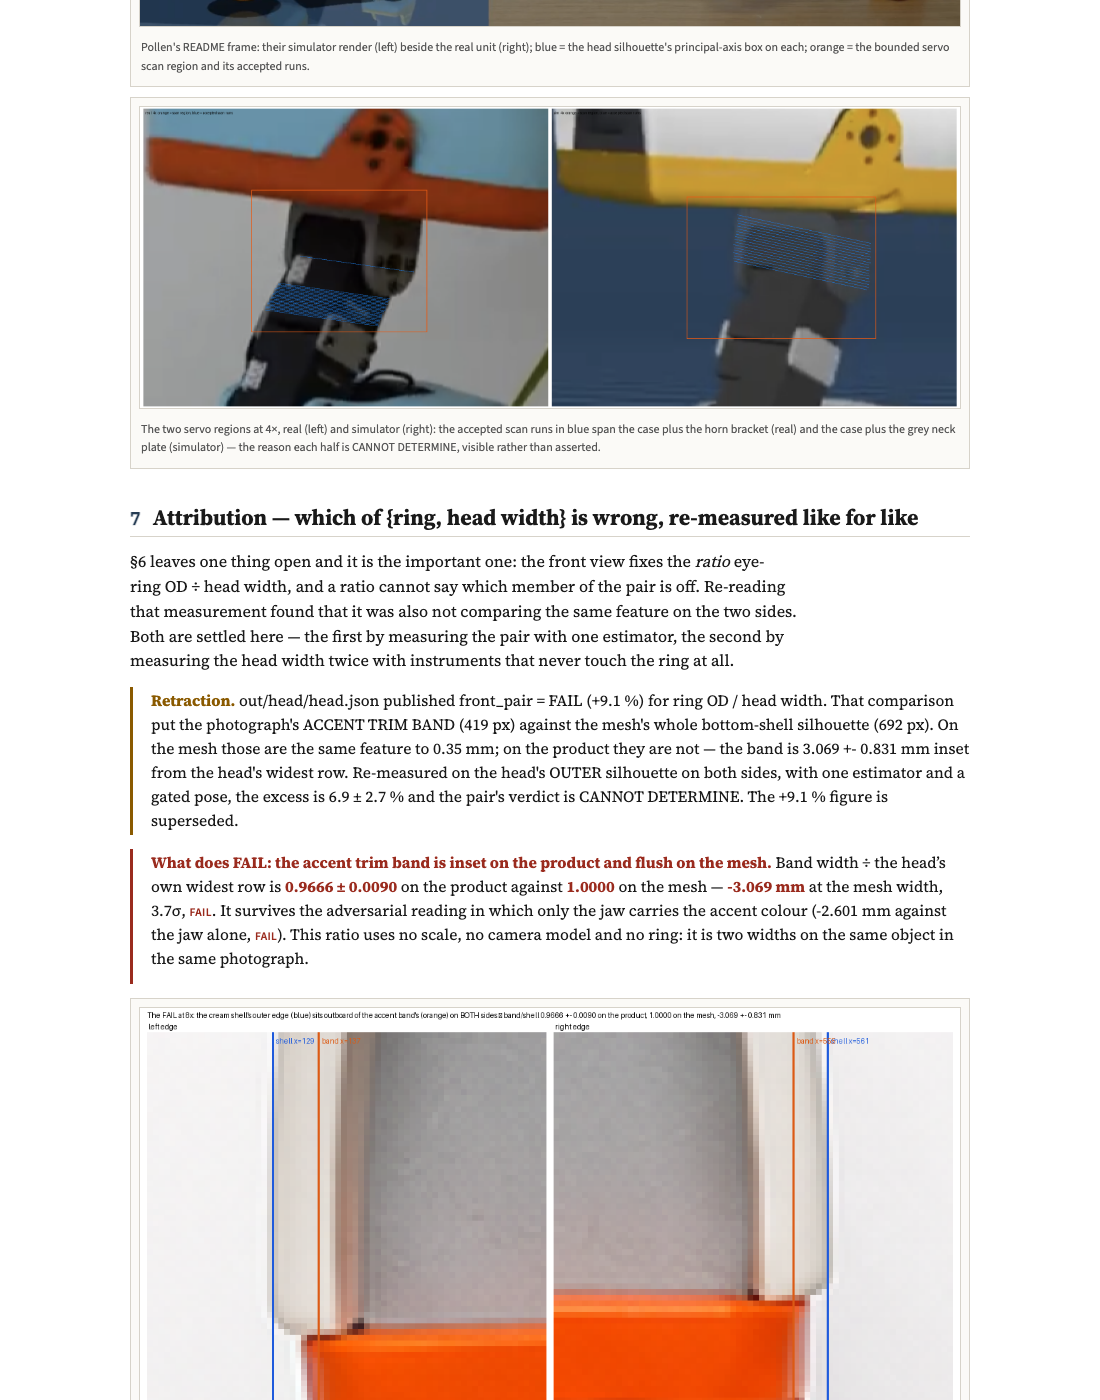
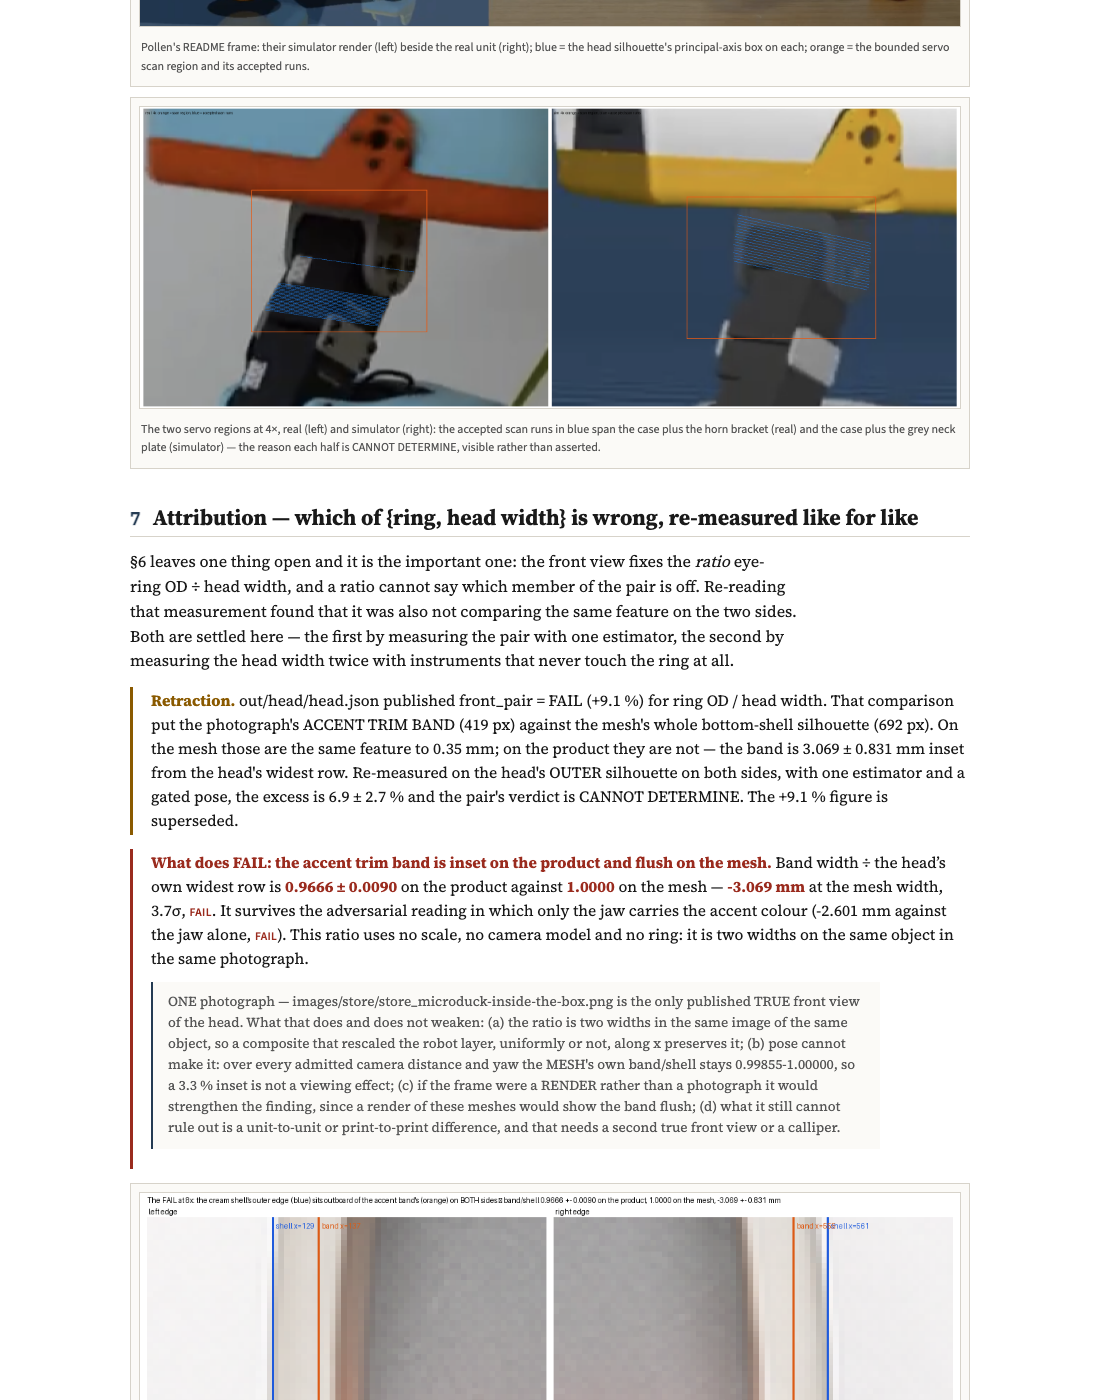
lane A: the band FAIL says what it rests on. The finding is ONE photograph — the only published true front view of the head — and the record now says exactly what that does and does not weaken: a composite that rescaled the robot layer along x preserves a ratio of two widths in the same image; pose 

Changed region(s): [[0.1236, 0.7064, 0.7727, 1.0], [0.7727, 0.5221, 0.8655, 0.5529]]

diff --git a/HEAD-RECONSTRUCTION.html b/HEAD-RECONSTRUCTION.html
@@ -48,7 +48,7 @@
   every product photograph is scaled by the XL330-M288-T servo visible in the same frame, our model is posed to the photograph with a
   perspective camera, and the head shell is compared in millimetres against the mesh's 91.760 × 122.690 × 46.336 mm under the rebuild
   rule (1.5 mm per axis), never loosened.</p>
-  <div class="rev"><span>MD-HEAD-001 · Rev A</span><span>2026-09-03 05:41</span><span>data: <code>out/head/head.json</code></span><span>generator: <code>tools/gen_head.py</code></span></div>
+  <div class="rev"><span>MD-HEAD-001 · Rev A</span><span>2026-09-03 05:45</span><span>data: <code>out/head/head.json</code></span><span>generator: <code>tools/gen_head.py</code></span></div>
 </header>
 
 <div class="statbar">
@@ -96,7 +96,7 @@
     the front view's ring/width pair is <span class="chip cd">CANNOT DETERMINE</span> and its attribution to the ring <span class="chip cd">CANNOT DETERMINE</span>.
     Face layout in the front view (Table 6, each graded): eye centre below the shell top +2.34 mm <span class="chip cd">CANNOT DETERMINE</span>, eye centre off the mid-line -0.16 mm <span class="chip pass">PASS</span>, ToF window from the MJCF site +1.25 mm <span class="chip cd">CANNOT DETERMINE</span>.
   </div>
-  <div class="verdict warn"><b>Re-model?</b> What FAILS is one feature, and it is the only one the photographs resolve at the rule: the accent trim band at the split line is 3.069 +- 0.831 mm narrower than the head&#x27;s widest row on the product and flush with it on the mesh. Modelling that means the top shell&#x27;s lower rim overhangs the band by about 1.53 mm per side — an EXTERNAL feature, so it is modelled, not guessed. What does NOT justify a re-model: the head&#x27;s overall WIDTH (89.386 ± 1.815 mm against 91.763, CANNOT DETERMINE) and the eye ring&#x27;s OD (31.239 ± 1.065 mm against 30.000, CANNOT DETERMINE). Both point the same way as the front view&#x27;s ratio and neither clears the 1.5 mm rule, so scaling the shells to either number would be a plausible default written into tooling — refused. What a lateral scale would break, MEASURED: part:microduck-jaw&#x27;s hinge interfaces sit at x +42.068 (mouth_horn, the servo horn face) and x -39.700 (bearing_journal) in the mesh frame; the XL330 that drives them does not scale, so a 3 % lateral scale of the shells moves the horn face 1.26 mm off the servo. Where a width change comes out of the section is CANNOT DETERMINE from photographs (a thinner side wall, a narrower core and a different shell profile all give the same silhouette), so the shells stay Pollen&#x27;s geometry until a calliper says otherwise.</div>
+  <div class="verdict warn"><b>Re-model?</b> What FAILS is one feature, and it is the only one the photographs resolve at the rule: the accent trim band at the split line is 3.069 ± 0.831 mm narrower than the head&#x27;s widest row on the product and flush with it on the mesh. Modelling that means the top shell&#x27;s lower rim overhangs the band by about 1.53 mm per side — an EXTERNAL feature, so it is modelled, not guessed. What does NOT justify a re-model: the head&#x27;s overall WIDTH (89.386 ± 1.815 mm against 91.763, CANNOT DETERMINE) and the eye ring&#x27;s OD (31.239 ± 1.065 mm against 30.000, CANNOT DETERMINE). Both point the same way as the front view&#x27;s ratio and neither clears the 1.5 mm rule, so scaling the shells to either number would be a plausible default written into tooling — refused. What a lateral scale would break, MEASURED: part:microduck-jaw&#x27;s hinge interfaces sit at x +42.068 (mouth_horn, the servo horn face) and x -39.700 (bearing_journal) in the mesh frame; the XL330 that drives them does not scale, so a 3 % lateral scale of the shells moves the horn face 1.26 mm off the servo. Where a width change comes out of the section is CANNOT DETERMINE from photographs (a thinner side wall, a narrower core and a different shell profile all give the same silhouette), so the shells stay Pollen&#x27;s geometry until a calliper says otherwise.</div>
   <p class="note">head: 2 photographs admitted (cream-profile-left, graphite-profile-right), each scaled by the XL330-M288-T case in the same frame (20.000 mm), posed and fitted with a perspective camera, size ratio product/mesh = k * W_render / W_photo; combined length deviation -0.348 ± 4.738 mm; per-axis +0.056 ± 4.783 / +0.620 ± 2.469. Front view (RE-MEASURED on the head&#x27;s OUTER silhouette, one estimator both sides, pose gated): ring OD / head width, photo 0.3547 vs mesh 0.3318 (CANNOT DETERMINE). Eye bezel: profile ring diameter at the head&#x27;s length scale +0.49 ± 0.45 mm vs the noenoeil mesh 30.000 mm. The one FAIL is the accent trim band, 0.9666 ± 0.0090 of the head&#x27;s own widest row on the product against 1.0000 on the mesh (-3.069 ± 0.831 mm). Head width -2.377 ± 1.815 mm on 91.763 (CANNOT DETERMINE); ring OD +1.239 ± 1.065 mm on 30.000 (CANNOT DETERMINE).</p>
 </section>
 
@@ -301,13 +301,14 @@
   sides. Both are settled here — the first by measuring the pair with one estimator, the second by measuring the head width twice with
   instruments that never touch the ring at all.</p>
 
-  <div class="verdict cd"><b>Retraction.</b> out/head/head.json published front_pair = FAIL (+9.1 %) for ring OD / head width. That comparison put the photograph&#x27;s ACCENT TRIM BAND (419 px) against the mesh&#x27;s whole bottom-shell silhouette (692 px). On the mesh those are the same feature to 0.35 mm; on the product they are not — the band is 3.069 +- 0.831 mm inset from the head&#x27;s widest row. Re-measured on the head&#x27;s OUTER silhouette on both sides, with one estimator and a gated pose, the excess is 6.9 ± 2.7 % and the pair&#x27;s verdict is CANNOT DETERMINE. The +9.1 % figure is superseded.</div>
+  <div class="verdict cd"><b>Retraction.</b> out/head/head.json published front_pair = FAIL (+9.1 %) for ring OD / head width. That comparison put the photograph&#x27;s ACCENT TRIM BAND (419 px) against the mesh&#x27;s whole bottom-shell silhouette (692 px). On the mesh those are the same feature to 0.35 mm; on the product they are not — the band is 3.069 ± 0.831 mm inset from the head&#x27;s widest row. Re-measured on the head&#x27;s OUTER silhouette on both sides, with one estimator and a gated pose, the excess is 6.9 ± 2.7 % and the pair&#x27;s verdict is CANNOT DETERMINE. The +9.1 % figure is superseded.</div>
 
   <div class="verdict warn"><b>What does FAIL: the accent trim band is inset on the product and flush on the mesh.</b>
   Band width ÷ the head&rsquo;s own widest row is <b>0.9666 ± 0.0090</b> on the product against <b>1.0000</b> on the mesh —
   <b>-3.069 mm</b> at the mesh width, 3.7σ, <span class="chip no">FAIL</span>. It survives the adversarial reading in which only the jaw carries the
   accent colour (-2.601 mm against the jaw alone, <span class="chip no">FAIL</span>). This ratio uses no scale, no camera model and no ring: it is two
-  widths on the same object in the same photograph.</p></div>
+  widths on the same object in the same photograph.</p>
+  <p class="note">ONE photograph — images/store/store_microduck-inside-the-box.png is the only published TRUE front view of the head. What that does and does not weaken: (a) the ratio is two widths in the same image of the same object, so a composite that rescaled the robot layer, uniformly or not, along x preserves it; (b) pose cannot make it: over every admitted camera distance and yaw the MESH&#x27;s own band/shell stays 0.99855-1.00000, so a 3.3 % inset is not a viewing effect; (c) if the frame were a RENDER rather than a photograph it would strengthen the finding, since a render of these meshes would show the band flush; (d) what it still cannot rule out is a unit-to-unit or print-to-print difference, and that needs a second true front view or a calliper.</p></div>
 
   <figure class="wide"><img src="out/head/front_edges.png" alt="the head's shell edge against the trim band's, at 8x, both sides">
     <figcaption>The FAIL at 8× on the photograph itself. Blue = the cream shell&rsquo;s outer edge at the head&rsquo;s widest row

diff --git a/COMPARISON.html b/COMPARISON.html
@@ -276,7 +276,7 @@
         CANNOT DETERMINE (+6.9&nbsp;%, +2.10&nbsp;±&nbsp;0.83&nbsp;mm, attribution CANNOT DETERMINE);
         eye bezel CANNOT DETERMINE (+0.49&nbsp;±&nbsp;0.45&nbsp;mm at the head's length scale, profiles).</td>
         <td><a href="HEAD-RECONSTRUCTION.html">HEAD-RECONSTRUCTION.html</a>, <code>out/head/head.json</code></td>
-        <td>Head tooling must NOT be cut from the published meshes. What FAILS is one feature, and it is the only one the photographs resolve at the rule: the accent trim band at the split line is 3.069 +- 0.831 mm narrower than the head&#x27;s widest row on the product and flush with it on the mesh. Modelling that means the top shell&#x27;s lower rim overhangs the band by about 1.53 mm per side — an EXTERNAL feature, so it is modelled, not guessed. What does NOT justify a re-model: the head&#x27;s overall WIDTH (89.386 ± 1.815 mm against 91.763, CANNOT DETERMINE) and the eye ring&#x27;s OD (31.239 ± 1.065 mm against 30.000, CANNOT DETERMINE). Both point the same way as the front view&#x27;s ratio and neither clears the 1.5 mm rule, so scaling the shells to either number would be a plausible default written into tooling — refused. What a lateral scale would break, MEASURED: part:microduck-jaw&#x27;s hinge interfaces sit at x +42.068 (mouth_horn, the servo horn face) and x -39.700 (bearing_journal) in the mesh frame; the XL330 that drives them does not scale, so a 3 % lateral scale of the shells moves the horn face 1.26 mm off the servo. Where a width change comes out of the section is CANNOT DETERMINE from photographs (a thinner side wall, a narrower core and a different shell profile all give the same silhouette), so the shells stay Pollen&#x27;s geometry until a calliper says otherwise.</td>
+        <td>Head tooling must NOT be cut from the published meshes. What FAILS is one feature, and it is the only one the photographs resolve at the rule: the accent trim band at the split line is 3.069 ± 0.831 mm narrower than the head&#x27;s widest row on the product and flush with it on the mesh. Modelling that means the top shell&#x27;s lower rim overhangs the band by about 1.53 mm per side — an EXTERNAL feature, so it is modelled, not guessed. What does NOT justify a re-model: the head&#x27;s overall WIDTH (89.386 ± 1.815 mm against 91.763, CANNOT DETERMINE) and the eye ring&#x27;s OD (31.239 ± 1.065 mm against 30.000, CANNOT DETERMINE). Both point the same way as the front view&#x27;s ratio and neither clears the 1.5 mm rule, so scaling the shells to either number would be a plausible default written into tooling — refused. What a lateral scale would break, MEASURED: part:microduck-jaw&#x27;s hinge interfaces sit at x +42.068 (mouth_horn, the servo horn face) and x -39.700 (bearing_journal) in the mesh frame; the XL330 that drives them does not scale, so a 3 % lateral scale of the shells moves the horn face 1.26 mm off the servo. Where a width change comes out of the section is CANNOT DETERMINE from photographs (a thinner side wall, a narrower core and a different shell profile all give the same silhouette), so the shells stay Pollen&#x27;s geometry until a calliper says otherwise.</td>
         <td>A calliper on one product head: top_head_shell length (mesh 122.690 mm), WIDTH across the beak and across the shell rim (mesh 91.763 / 91.760) and height (46.336) to 0.1 mm, and the eye ring&#x27;s outer diameter (mesh 30.000) — a 0.1 mm reading beats every photograph here by an order of magnitude, settles the 1.5 mm rule outright and attributes the front-view ring/width excess to the ring or to the width. Or one photograph taken for the purpose: a true front view with a ruler in the plane of the face (fixes the ring/width pair in mm), and one pure profile, beak closed, head level, the XL330 label face in the focal plane of the head, 4000+ px on the long side (the length to 0.6 mm). The camera distance of the store photographs (EXIF focal length + sensor, stripped from the published files, or a ruler in the frame) would remove the D term from every servo-scaled ratio (photos[].size.D_note). A cleaner pure-profile frame from Pollen&#x27;s video (the README frame&#x27;s neck servo is merged with its horn bracket and cables at 4x, out/head/profile_frame_servo_zoom.png).</td></tr>
       <tr><td class="n">2</td><td><b>Battery mesh is an NP-F970, not the NP-F550 class cell the
         documentation calls out.</b></td>

diff --git a/tools/head_frontfit.py b/tools/head_frontfit.py
@@ -422,7 +422,15 @@ def main():
                                   "band IS the head's widest feature; on the product it is inset."),
                             why_it_matters=("out/head/front_view.json used the photograph's BAND (419 px) as the head width against the "
                                             "mesh's whole bottom-shell silhouette (692 px). Those are the same feature on the mesh and "
-                                            "different features on the product, which is where its +9.1 %% came from."))
+                                            "different features on the product, which is where its +9.1 %% came from."),
+                            basis=("ONE photograph — images/store/store_microduck-inside-the-box.png is the only published TRUE front view "
+                                   "of the head. What that does and does not weaken: (a) the ratio is two widths in the same image of the "
+                                   "same object, so a composite that rescaled the robot layer, uniformly or not, along x preserves it; "
+                                   "(b) pose cannot make it: over every admitted camera distance and yaw the MESH's own band/shell stays "
+                                   "%.5f-%.5f, so a 3.3 %% inset is not a viewing effect; (c) if the frame were a RENDER rather than a "
+                                   "photograph it would strengthen the finding, since a render of these meshes would show the band flush; "
+                                   "(d) what it still cannot rule out is a unit-to-unit or print-to-print difference, and that needs a "
+                                   "second true front view or a calliper." % (min(bs), max(bs))))
     # the OUTLINE: the two row-profiles laid on each other in the ring-anchored frame, compared
     # only where both are the same feature (the dome apex row and the bottom row are clipped or
     # are different parts, and are excluded BY NAME, not by trimming until it agrees)

diff --git a/tools/gen_head.py b/tools/gen_head.py
@@ -285,6 +285,7 @@ band_dev = f(B.get("dev_mm"), 3, True); band_chip = chip(B.get("verdict", "CANNO
 band_sigma = f(abs(B["dev_mm"]) / B["dev_unc_mm"], 1) if B.get("dev_unc_mm") else "—"
 band_dev_jaw = f(B.get("dev_mm_vs_jaw_only"), 3, True); band_chip_jaw = chip(B.get("verdict_vs_jaw_only", "CANNOT DETERMINE"))
 band_per_side = f(abs(B["dev_mm"]) / 2.0, 2) if B.get("dev_mm") else "—"
+band_basis = esc(B.get("basis", ""))
 _fc = (FF or {}).get("comparison", {})
 adm = _fc.get("admissible_poses", "—"); ofp = _fc.get("of_poses", "—"); gate = esc(_fc.get("pose_gate", ""))
 s_best = f(_fc.get("s_w_that_matches"), 3) if _fc.get("s_w_that_matches") else "—"
@@ -544,7 +545,8 @@ HTML = f"""<!doctype html>
   Band width ÷ the head&rsquo;s own widest row is <b>{band_photo} ± {band_unc}</b> on the product against <b>{band_mesh}</b> on the mesh —
   <b>{band_dev} mm</b> at the mesh width, {band_sigma}σ, {band_chip}. It survives the adversarial reading in which only the jaw carries the
   accent colour ({band_dev_jaw} mm against the jaw alone, {band_chip_jaw}). This ratio uses no scale, no camera model and no ring: it is two
-  widths on the same object in the same photograph.</p></div>
+  widths on the same object in the same photograph.</p>
+  <p class="note">{band_basis}</p></div>
 
   <figure class="wide"><img src="out/head/front_edges.png" alt="the head's shell edge against the trim band's, at 8x, both sides">
     <figcaption>The FAIL at 8× on the photograph itself. Blue = the cream shell&rsquo;s outer edge at the head&rsquo;s widest row

diff --git a/tools/head_width_verdict.py b/tools/head_width_verdict.py
@@ -194,7 +194,7 @@ def main():
                                if C.get("band_over_shell") else None),
         retraction=("out/head/head.json published front_pair = FAIL (+9.1 %%) for ring OD / head width. That comparison put the "
                     "photograph's ACCENT TRIM BAND (419 px) against the mesh's whole bottom-shell silhouette (692 px). On the mesh "
-                    "those are the same feature to 0.35 mm; on the product they are not — the band is %.3f +- %.3f mm inset from the "
+                    "those are the same feature to 0.35 mm; on the product they are not — the band is %.3f \u00b1 %.3f mm inset from the "
                     "head's widest row. Re-measured on the head's OUTER silhouette on both sides, with one estimator and a gated "
                     "pose, the excess is %.1f \u00b1 %.1f %% and the pair's verdict is %s. The %+.1f %% figure is superseded." % (
                         abs(C["band_over_shell"]["dev_mm"]), C["band_over_shell"]["dev_unc_mm"], pair_excess, pair_u, vPair, 9.1)

diff --git a/tools/head_verdict.py b/tools/head_verdict.py
@@ -48,7 +48,7 @@ def REMODEL(pair, combined):
     out = []
     if band.get("verdict") == "FAIL":
         out.append("What FAILS is one feature, and it is the only one the photographs resolve at the rule: the accent trim band at the "
-                   "split line is %.3f +- %.3f mm narrower than the head's widest row on the product and flush with it on the mesh. "
+                   "split line is %.3f \u00b1 %.3f mm narrower than the head's widest row on the product and flush with it on the mesh. "
                    "Modelling that means the top shell's lower rim overhangs the band by about %.2f mm per side — an EXTERNAL feature, "
                    "so it is modelled, not guessed." % (abs(band["dev_mm"]), band["dev_unc_mm"], abs(band["dev_mm"]) / 2.0))
     if hw:
